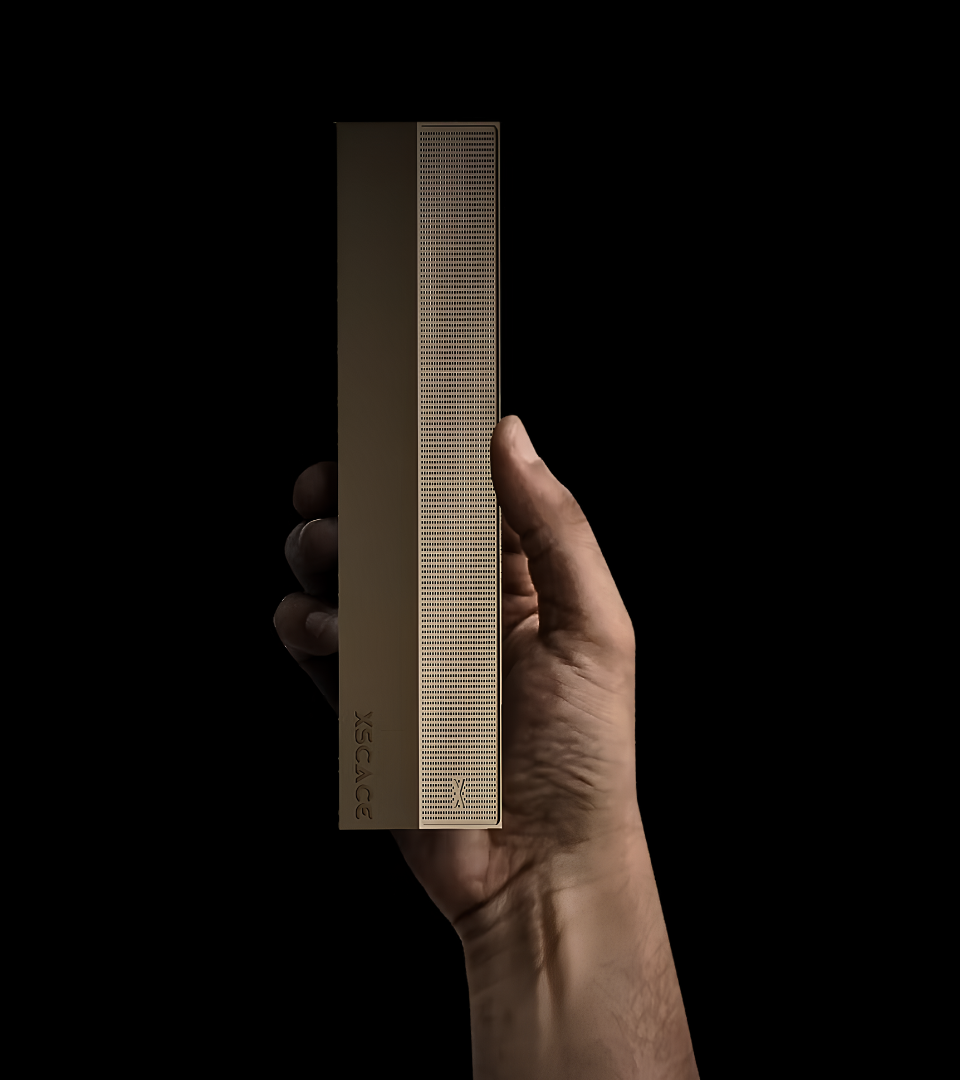
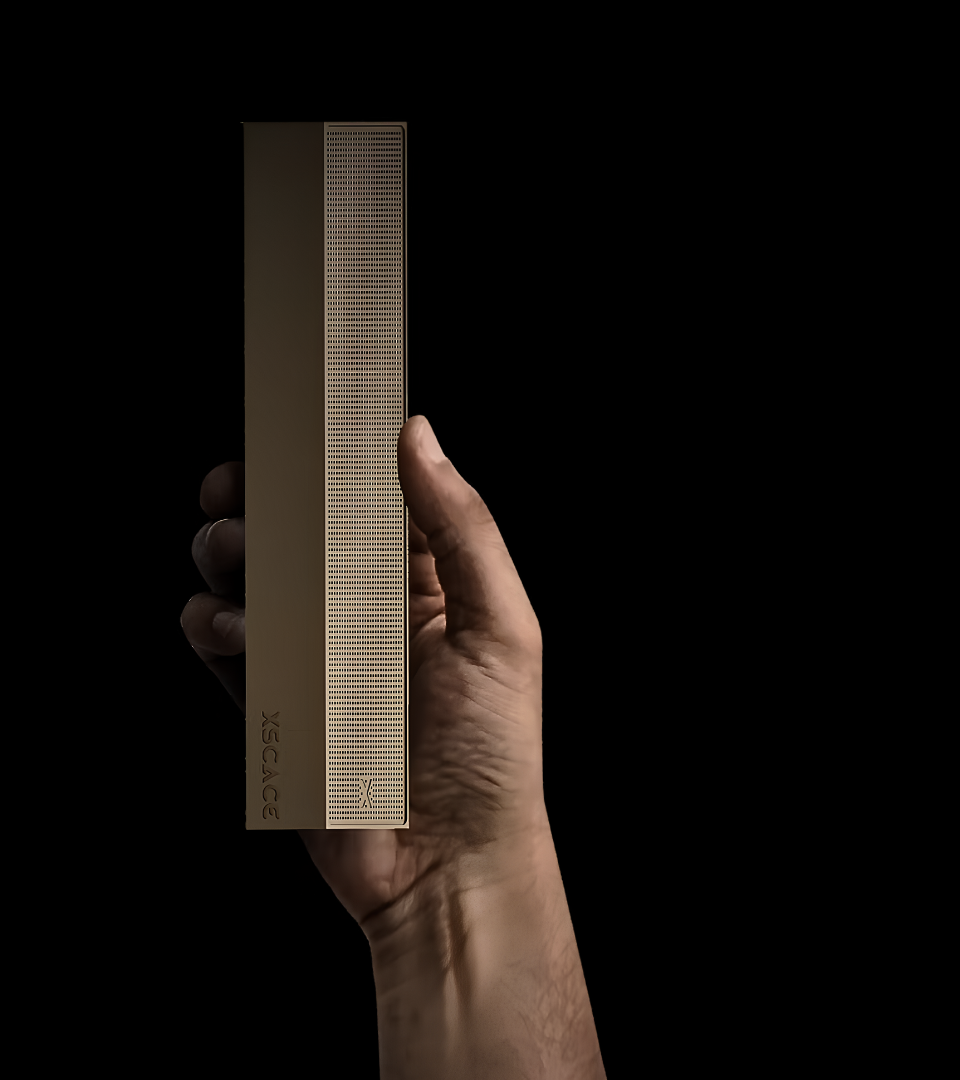
9.0 home polish

Changed region(s): [[0.1875, 0.0917, 0.75, 1.0]]

diff --git a/web/src/app/globals.css b/web/src/app/globals.css
@@ -107,6 +107,18 @@ body{background:#000;color:#d8d4cc;font-family:'DM Sans',sans-serif;font-size:13
   justify-content: center;
   width: 100%;
   max-height: 420px;
+  position: relative;
+}
+.scale-img-wrap::after {
+  content: '';
+  position: absolute;
+  bottom: 0;
+  left: 0;
+  right: 0;
+  height: 120px;
+  background: linear-gradient(to bottom, transparent, #000);
+  pointer-events: none;
+  z-index: 2;
 }
 .scale-img {
   max-height: 420px;